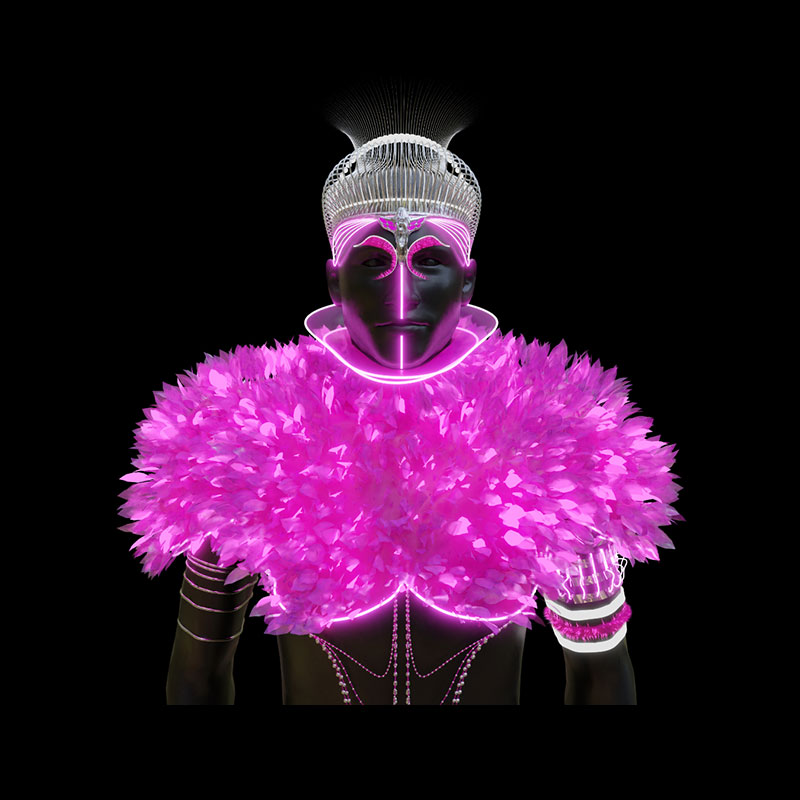
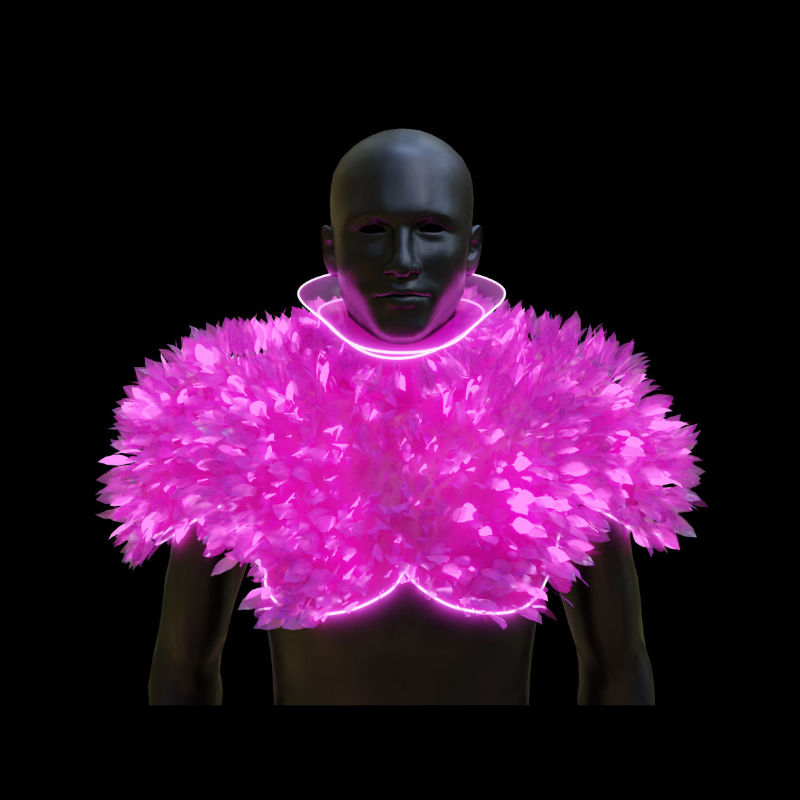
Adds nft images and replace thumbnail spacefashion

Changed region(s): [[0.125, 0.125, 0.875, 0.9062], [0.3438, 0.8438, 0.375, 0.875]]

diff --git a/nft.html b/nft.html
@@ -34,15 +34,16 @@
                 <img class="content" src="images/JuliusUberall_nft_birthdaycake.jpg">
             </div>
             <div class="cell_content_half_width_bright">
-                <video class="desktop_video" width=100% height="100%" autoplay loop muted>
-                  <source src="videos/JuliusUberall_nft_sugarsnow.mp4" type="video/mp4">
-                </video>
-            </div>
-            <div class="cell_content_half_width_bright">
                 <img class="content" src="images/JuliusUberall_nft_sugarsnow.jpg">
             </div>
             <div class="cell_content_half_width_bright">
                 <img class="content" src="images/JuliusUberall_nft_creamsicle.jpg">
+            </div>
+            <div class="cell_content_half_width_bright">
+                <img class="content" src="images/JuliusUberall_nft_4.jpg">
+            </div>
+            <div class="cell_content_half_width_bright">
+                <img class="content" src="images/JuliusUberall_nft_5.jpg">
             </div>
         </div>
     </div>

diff --git a/index.html b/index.html
@@ -399,12 +399,6 @@
                 <div class="cell_title">Villa Pile</div>
             </div>    
         </div></a>
-        <div class="grid_cell">
-            <img class="grid_image" src="images/Julius_Uberall_project_thumbnails_wip.jpg"/>
-            <div class="cell_hover">
-                <div class="cell_title">This website is currently a WIP (Work In Progress)</div>
-            </div>    
-        </div>
     </div>
     <!---FOOTER--->
     <div class="footer">
